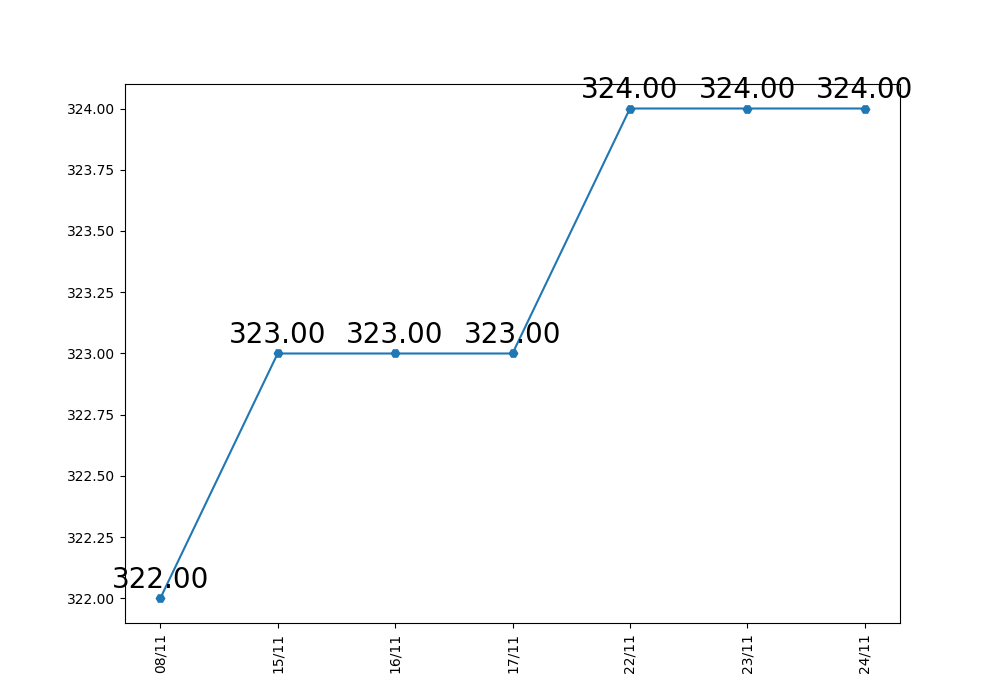
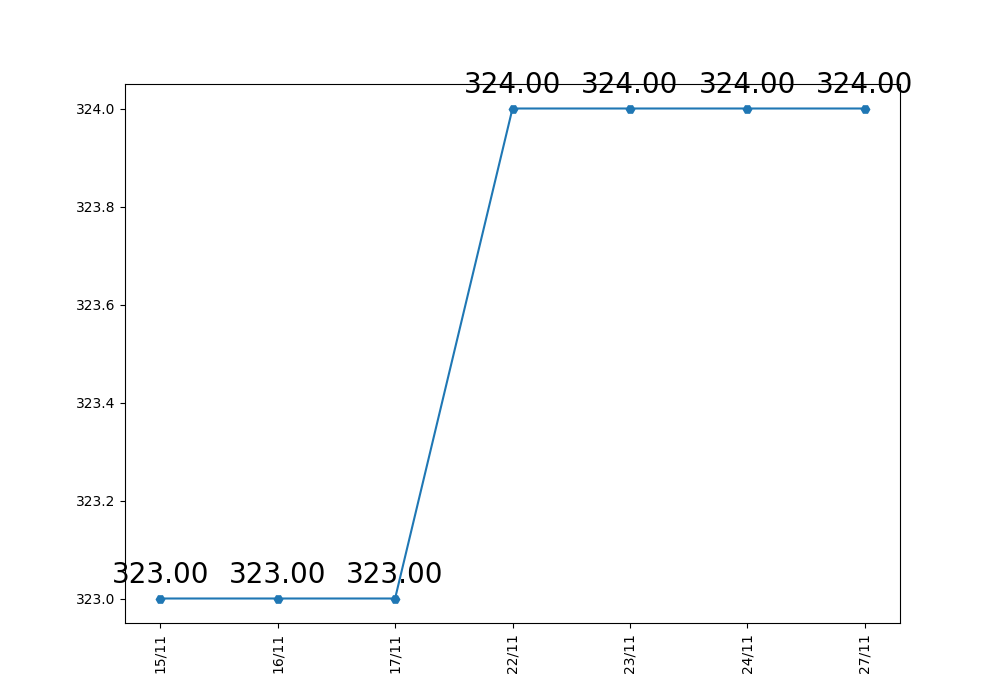
feat: get directories

diff --git a/ochestrators/executor.py b/ochestrators/executor.py
@@ -3,6 +3,12 @@ from modules.email import EmailModule
 from utils.logger import Logger
 from templates.newsletter import main_template
 from datetime import datetime, date
+import os
+
+OCHESTRATOR_DIR = os.path.dirname(os.path.abspath(__file__))
+HENCHMAN_DIR = os.path.dirname(OCHESTRATOR_DIR)
+TEMP_DIR = os.path.join(HENCHMAN_DIR, "temp")
+ASSETS_DIR = os.path.join(HENCHMAN_DIR, "assets")
 
 
 class Executor:
@@ -23,6 +29,7 @@ class Executor:
 
         try:
             self.logger.info("Successfully executed newsletter job")
+            self.currency_module.get_currency_rates()
             rates = self.currency_module.plot_currency_graph()
 
             if not rates:
@@ -39,11 +46,9 @@ class Executor:
             self.email_module.set_html_content(html_content)
             self.email_module.set_subject(f"Henchman | {current_day}")
             self.email_module.attach_image(
-                "/Users/guyson/Documents/Work/Henchman/temp/figure.png", "graph"
+                os.path.join(TEMP_DIR, "figure.png"), "graph"
             )
-            self.email_module.attach_image(
-                "/Users/guyson/Documents/Work/Henchman/assets/icon.png", "logo"
-            )
+            self.email_module.attach_image(os.path.join(ASSETS_DIR, "icon.png"), "logo")
 
             self.email_module.send_email("gayangakuruppu@gmail.com")
 

diff --git a/modules/email.py b/modules/email.py
@@ -26,7 +26,7 @@ class EmailModule:
         self.logger = Logger(EmailModule.__name__)
 
     def attach_image(self, path, cid):
-        self.logger.info("Attaching image")
+        self.logger.info(f"Attaching image. cid: {cid}. path: {path}")
         with open(path, "rb") as image_file:
             image = MIMEImage(image_file.read(), name="image.jpg")
             image.add_header("Content-ID", cid)

diff --git a/run.py b/run.py
@@ -1,0 +1,5 @@
+from ochestrators.executor import Executor
+
+
+exc = Executor()
+exc.execute_job()
